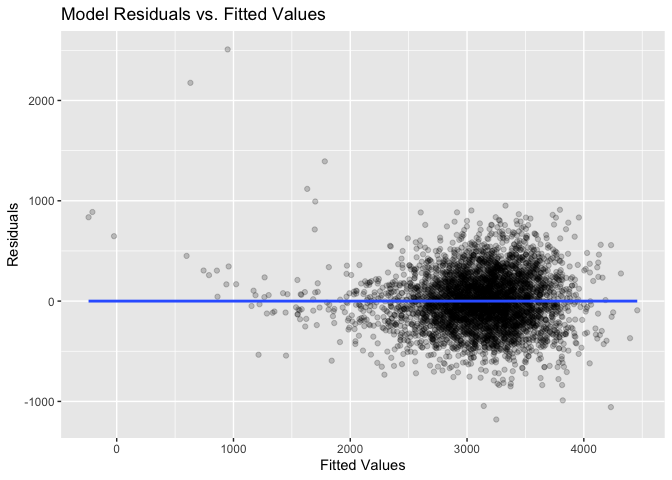
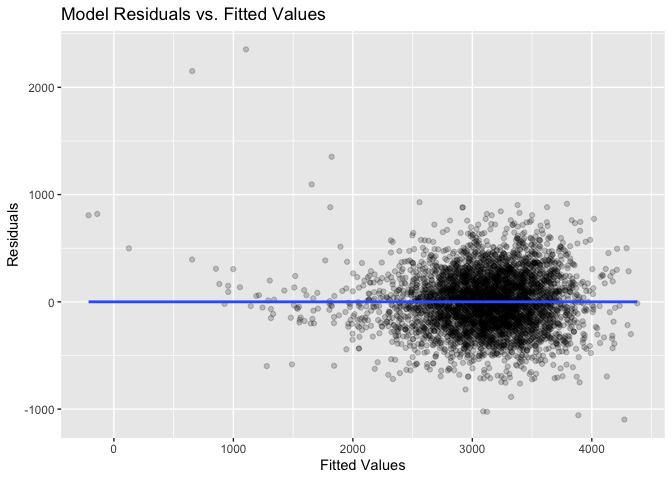
problem 1 update: backward MLR selection

diff --git a/p8105_hw6_lh3109.md b/p8105_hw6_lh3109.md
@@ -31,66 +31,181 @@ bw_df =
 This data set contains 4342 observations with 22 variables. It does not
 contains NA values.
 
-### Select predictors
+### Variable selection
 
 ``` r
 #test model by considering all variables as predictors
-fit_test = lm(bwt ~ . , data = bw_df)
+mult_fit = lm(bwt ~ . , data = bw_df)
 
-#summry results and look for statistically significant predictors of bwt
-summary(fit_test)
+#using stepwise backward function to select predictors
+step(mult_fit, direction = 'backward')
 ```
+
+    ## Start:  AIC=48717.83
+    ## bwt ~ babysex + bhead + blength + delwt + fincome + frace + gaweeks + 
+    ##     malform + menarche + mheight + momage + mrace + parity + 
+    ##     pnumlbw + pnumsga + ppbmi + ppwt + smoken + wtgain
+    ## 
+    ## 
+    ## Step:  AIC=48717.83
+    ## bwt ~ babysex + bhead + blength + delwt + fincome + frace + gaweeks + 
+    ##     malform + menarche + mheight + momage + mrace + parity + 
+    ##     pnumlbw + pnumsga + ppbmi + ppwt + smoken
+    ## 
+    ## 
+    ## Step:  AIC=48717.83
+    ## bwt ~ babysex + bhead + blength + delwt + fincome + frace + gaweeks + 
+    ##     malform + menarche + mheight + momage + mrace + parity + 
+    ##     pnumlbw + ppbmi + ppwt + smoken
+    ## 
+    ## 
+    ## Step:  AIC=48717.83
+    ## bwt ~ babysex + bhead + blength + delwt + fincome + frace + gaweeks + 
+    ##     malform + menarche + mheight + momage + mrace + parity + 
+    ##     ppbmi + ppwt + smoken
+    ## 
+    ##            Df Sum of Sq       RSS   AIC
+    ## - frace     4    124365 320848704 48712
+    ## - malform   1      1419 320725757 48716
+    ## - ppbmi     1      6346 320730684 48716
+    ## - momage    1     28661 320752999 48716
+    ## - mheight   1     66886 320791224 48717
+    ## - menarche  1    111679 320836018 48717
+    ## - ppwt      1    131132 320855470 48718
+    ## <none>                  320724338 48718
+    ## - fincome   1    193454 320917792 48718
+    ## - parity    1    413584 321137922 48721
+    ## - mrace     3    868321 321592659 48724
+    ## - babysex   1    853796 321578134 48727
+    ## - gaweeks   1   4611823 325336161 48778
+    ## - smoken    1   5076393 325800732 48784
+    ## - delwt     1   8008891 328733230 48823
+    ## - blength   1 102050296 422774634 49915
+    ## - bhead     1 106535716 427260054 49961
+    ## 
+    ## Step:  AIC=48711.51
+    ## bwt ~ babysex + bhead + blength + delwt + fincome + gaweeks + 
+    ##     malform + menarche + mheight + momage + mrace + parity + 
+    ##     ppbmi + ppwt + smoken
+    ## 
+    ##            Df Sum of Sq       RSS   AIC
+    ## - malform   1      1447 320850151 48710
+    ## - ppbmi     1      6975 320855679 48710
+    ## - momage    1     28379 320877083 48710
+    ## - mheight   1     69502 320918206 48710
+    ## - menarche  1    115708 320964411 48711
+    ## - ppwt      1    133961 320982665 48711
+    ## <none>                  320848704 48712
+    ## - fincome   1    194405 321043108 48712
+    ## - parity    1    414687 321263390 48715
+    ## - babysex   1    852133 321700837 48721
+    ## - gaweeks   1   4625208 325473911 48772
+    ## - smoken    1   5036389 325885093 48777
+    ## - delwt     1   8013099 328861802 48817
+    ## - mrace     3  13540415 334389119 48885
+    ## - blength   1 101995688 422844392 49908
+    ## - bhead     1 106662962 427511666 49956
+    ## 
+    ## Step:  AIC=48709.53
+    ## bwt ~ babysex + bhead + blength + delwt + fincome + gaweeks + 
+    ##     menarche + mheight + momage + mrace + parity + ppbmi + ppwt + 
+    ##     smoken
+    ## 
+    ##            Df Sum of Sq       RSS   AIC
+    ## - ppbmi     1      6928 320857079 48708
+    ## - momage    1     28660 320878811 48708
+    ## - mheight   1     69320 320919470 48708
+    ## - menarche  1    116027 320966177 48709
+    ## - ppwt      1    133894 320984044 48709
+    ## <none>                  320850151 48710
+    ## - fincome   1    193784 321043934 48710
+    ## - parity    1    414482 321264633 48713
+    ## - babysex   1    851279 321701430 48719
+    ## - gaweeks   1   4624003 325474154 48770
+    ## - smoken    1   5035195 325885346 48775
+    ## - delwt     1   8029079 328879230 48815
+    ## - mrace     3  13553320 334403471 48883
+    ## - blength   1 102009225 422859375 49906
+    ## - bhead     1 106675331 427525481 49954
+    ## 
+    ## Step:  AIC=48707.63
+    ## bwt ~ babysex + bhead + blength + delwt + fincome + gaweeks + 
+    ##     menarche + mheight + momage + mrace + parity + ppwt + smoken
+    ## 
+    ##            Df Sum of Sq       RSS   AIC
+    ## - momage    1     29211 320886290 48706
+    ## - menarche  1    117635 320974714 48707
+    ## <none>                  320857079 48708
+    ## - fincome   1    195199 321052278 48708
+    ## - parity    1    412984 321270064 48711
+    ## - babysex   1    850020 321707099 48717
+    ## - mheight   1   1078673 321935752 48720
+    ## - ppwt      1   2934023 323791103 48745
+    ## - gaweeks   1   4621504 325478583 48768
+    ## - smoken    1   5039368 325896447 48773
+    ## - delwt     1   8024939 328882018 48813
+    ## - mrace     3  13551444 334408523 48881
+    ## - blength   1 102018559 422875638 49904
+    ## - bhead     1 106821342 427678421 49953
+    ## 
+    ## Step:  AIC=48706.02
+    ## bwt ~ babysex + bhead + blength + delwt + fincome + gaweeks + 
+    ##     menarche + mheight + mrace + parity + ppwt + smoken
+    ## 
+    ##            Df Sum of Sq       RSS   AIC
+    ## - menarche  1    100121 320986412 48705
+    ## <none>                  320886290 48706
+    ## - fincome   1    240800 321127090 48707
+    ## - parity    1    431433 321317724 48710
+    ## - babysex   1    841278 321727568 48715
+    ## - mheight   1   1076739 321963029 48719
+    ## - ppwt      1   2913653 323799943 48743
+    ## - gaweeks   1   4676469 325562760 48767
+    ## - smoken    1   5045104 325931394 48772
+    ## - delwt     1   8000672 328886962 48811
+    ## - mrace     3  14667730 335554021 48894
+    ## - blength   1 101990556 422876847 49902
+    ## - bhead     1 106864308 427750598 49952
+    ## 
+    ## Step:  AIC=48705.38
+    ## bwt ~ babysex + bhead + blength + delwt + fincome + gaweeks + 
+    ##     mheight + mrace + parity + ppwt + smoken
+    ## 
+    ##           Df Sum of Sq       RSS   AIC
+    ## <none>                 320986412 48705
+    ## - fincome  1    245637 321232048 48707
+    ## - parity   1    422770 321409181 48709
+    ## - babysex  1    846134 321832545 48715
+    ## - mheight  1   1012240 321998651 48717
+    ## - ppwt     1   2907049 323893461 48743
+    ## - gaweeks  1   4662501 325648912 48766
+    ## - smoken   1   5073849 326060260 48771
+    ## - delwt    1   8137459 329123871 48812
+    ## - mrace    3  14683609 335670021 48894
+    ## - blength  1 102191779 423178191 49903
+    ## - bhead    1 106779754 427766166 49950
 
     ## 
     ## Call:
-    ## lm(formula = bwt ~ ., data = bw_df)
+    ## lm(formula = bwt ~ babysex + bhead + blength + delwt + fincome + 
+    ##     gaweeks + mheight + mrace + parity + ppwt + smoken, data = bw_df)
     ## 
-    ## Residuals:
-    ##      Min       1Q   Median       3Q      Max 
-    ## -1097.68  -184.86    -3.33   173.09  2344.15 
-    ## 
-    ## Coefficients: (3 not defined because of singularities)
-    ##               Estimate Std. Error t value Pr(>|t|)    
-    ## (Intercept) -6265.3914   660.4011  -9.487  < 2e-16 ***
-    ## babysex2       28.7073     8.4652   3.391 0.000702 ***
-    ## bhead         130.7781     3.4523  37.881  < 2e-16 ***
-    ## blength        74.9536     2.0217  37.075  < 2e-16 ***
-    ## delwt           4.1007     0.3948  10.386  < 2e-16 ***
-    ## fincome         0.2898     0.1795   1.614 0.106551    
-    ## frace2         14.3313    46.1501   0.311 0.756168    
-    ## frace3         21.2361    69.2960   0.306 0.759273    
-    ## frace4        -46.9962    44.6782  -1.052 0.292912    
-    ## frace8          4.2969    74.0741   0.058 0.953745    
-    ## gaweeks        11.5494     1.4654   7.882 4.06e-15 ***
-    ## malform1        9.7650    70.6259   0.138 0.890039    
-    ## menarche       -3.5508     2.8951  -1.226 0.220083    
-    ## mheight         9.7874    10.3116   0.949 0.342588    
-    ## momage          0.7593     1.2221   0.621 0.534418    
-    ## mrace2       -151.4354    46.0453  -3.289 0.001014 ** 
-    ## mrace3        -91.3866    71.9190  -1.271 0.203908    
-    ## mrace4        -56.4787    45.1369  -1.251 0.210901    
-    ## parity         95.5411    40.4793   2.360 0.018307 *  
-    ## pnumlbw             NA         NA      NA       NA    
-    ## pnumsga             NA         NA      NA       NA    
-    ## ppbmi           4.3538    14.8913   0.292 0.770017    
-    ## ppwt           -3.4716     2.6121  -1.329 0.183913    
-    ## smoken         -4.8544     0.5871  -8.269  < 2e-16 ***
-    ## wtgain              NA         NA      NA       NA    
-    ## ---
-    ## Signif. codes:  0 '***' 0.001 '**' 0.01 '*' 0.05 '.' 0.1 ' ' 1
-    ## 
-    ## Residual standard error: 272.5 on 4320 degrees of freedom
-    ## Multiple R-squared:  0.7183, Adjusted R-squared:  0.717 
-    ## F-statistic: 524.6 on 21 and 4320 DF,  p-value: < 2.2e-16
+    ## Coefficients:
+    ## (Intercept)     babysex2        bhead      blength        delwt      fincome  
+    ##   -6098.822       28.558      130.777       74.947        4.107        0.318  
+    ##     gaweeks      mheight       mrace2       mrace3       mrace4       parity  
+    ##      11.592        6.594     -138.792      -74.887     -100.678       96.305  
+    ##        ppwt       smoken  
+    ##      -2.676       -4.843
 
 ### Fit model
 
-Consider birthweight as an outcome that depend on the predictors that
-are statistically significant
+Apply the selected predictors to the model
 
 ``` r
 #fit the model
-fit = lm(bwt ~ babysex + bhead + blength + delwt + gaweeks + parity + smoken, data = bw_df)
+fit = lm(bwt ~ babysex + bhead + blength + delwt + fincome + 
+    gaweeks + mheight + mrace + parity + ppwt + smoken, data = bw_df)
 
 #check the results
 summary(fit)
@@ -98,29 +213,35 @@ summary(fit)
 
     ## 
     ## Call:
-    ## lm(formula = bwt ~ babysex + bhead + blength + delwt + gaweeks + 
-    ##     parity + smoken, data = bw_df)
+    ## lm(formula = bwt ~ babysex + bhead + blength + delwt + fincome + 
+    ##     gaweeks + mheight + mrace + parity + ppwt + smoken, data = bw_df)
     ## 
     ## Residuals:
     ##      Min       1Q   Median       3Q      Max 
-    ## -1180.35  -183.47    -9.59   174.39  2508.92 
+    ## -1097.18  -185.52    -3.39   174.14  2353.44 
     ## 
     ## Coefficients:
     ##               Estimate Std. Error t value Pr(>|t|)    
-    ## (Intercept) -6294.0426    97.0551 -64.850  < 2e-16 ***
-    ## babysex2       29.7598     8.7324   3.408 0.000660 ***
-    ## bhead         137.0235     3.5340  38.773  < 2e-16 ***
-    ## blength        78.8683     2.0709  38.083  < 2e-16 ***
-    ## delwt           2.0744     0.1993  10.411  < 2e-16 ***
-    ## gaweeks        14.3571     1.5011   9.564  < 2e-16 ***
-    ## parity        102.3021    41.7131   2.453 0.014225 *  
-    ## smoken         -2.1688     0.5820  -3.727 0.000196 ***
+    ## (Intercept) -6098.8219   137.5463 -44.340  < 2e-16 ***
+    ## babysex2       28.5580     8.4549   3.378 0.000737 ***
+    ## bhead         130.7770     3.4466  37.944  < 2e-16 ***
+    ## blength        74.9471     2.0190  37.120  < 2e-16 ***
+    ## delwt           4.1067     0.3921  10.475  < 2e-16 ***
+    ## fincome         0.3180     0.1747   1.820 0.068844 .  
+    ## gaweeks        11.5925     1.4621   7.929 2.79e-15 ***
+    ## mheight         6.5940     1.7849   3.694 0.000223 ***
+    ## mrace2       -138.7925     9.9071 -14.009  < 2e-16 ***
+    ## mrace3        -74.8868    42.3146  -1.770 0.076837 .  
+    ## mrace4       -100.6781    19.3247  -5.210 1.98e-07 ***
+    ## parity         96.3047    40.3362   2.388 0.017004 *  
+    ## ppwt           -2.6756     0.4274  -6.261 4.20e-10 ***
+    ## smoken         -4.8434     0.5856  -8.271  < 2e-16 ***
     ## ---
     ## Signif. codes:  0 '***' 0.001 '**' 0.01 '*' 0.05 '.' 0.1 ' ' 1
     ## 
-    ## Residual standard error: 281.8 on 4334 degrees of freedom
-    ## Multiple R-squared:  0.6977, Adjusted R-squared:  0.6973 
-    ## F-statistic:  1429 on 7 and 4334 DF,  p-value: < 2.2e-16
+    ## Residual standard error: 272.3 on 4328 degrees of freedom
+    ## Multiple R-squared:  0.7181, Adjusted R-squared:  0.7173 
+    ## F-statistic: 848.1 on 13 and 4328 DF,  p-value: < 2.2e-16
 
 ### Plot residuals vs. fitted values
 
@@ -138,12 +259,12 @@ bw_df %>%
 
 ![](p8105_hw6_lh3109_files/figure-gfm/unnamed-chunk-4-1.png)<!-- --> As
 shown in the plot, with fitted value below 2000 or above 4000, the
-residuals do not “bounce randomly” around the 0 line, suggesting that
-the data point in this range do not fall on the estimated regression
-line. This model is not optimal for data outside of the 2000-4000 range
-for fitted values. However, when fitted values are around 3000, many
-data points have residuals equals to 0, showing that they falls directly
-on the estimated regression line, and the model predictions are correct.
+residuals do not bounce randomly around the 0 line, suggesting that the
+data point in this range do not fall on the estimated regression line.
+This model is not optimal for data outside of the 2000-4000 range for
+fitted values and there are many outliers However, when fitted values
+are around 3000, many data points have residuals equals to 0 and they
+falls directly on the estimated regression line.
 
 ## Compare the model with two others
 
